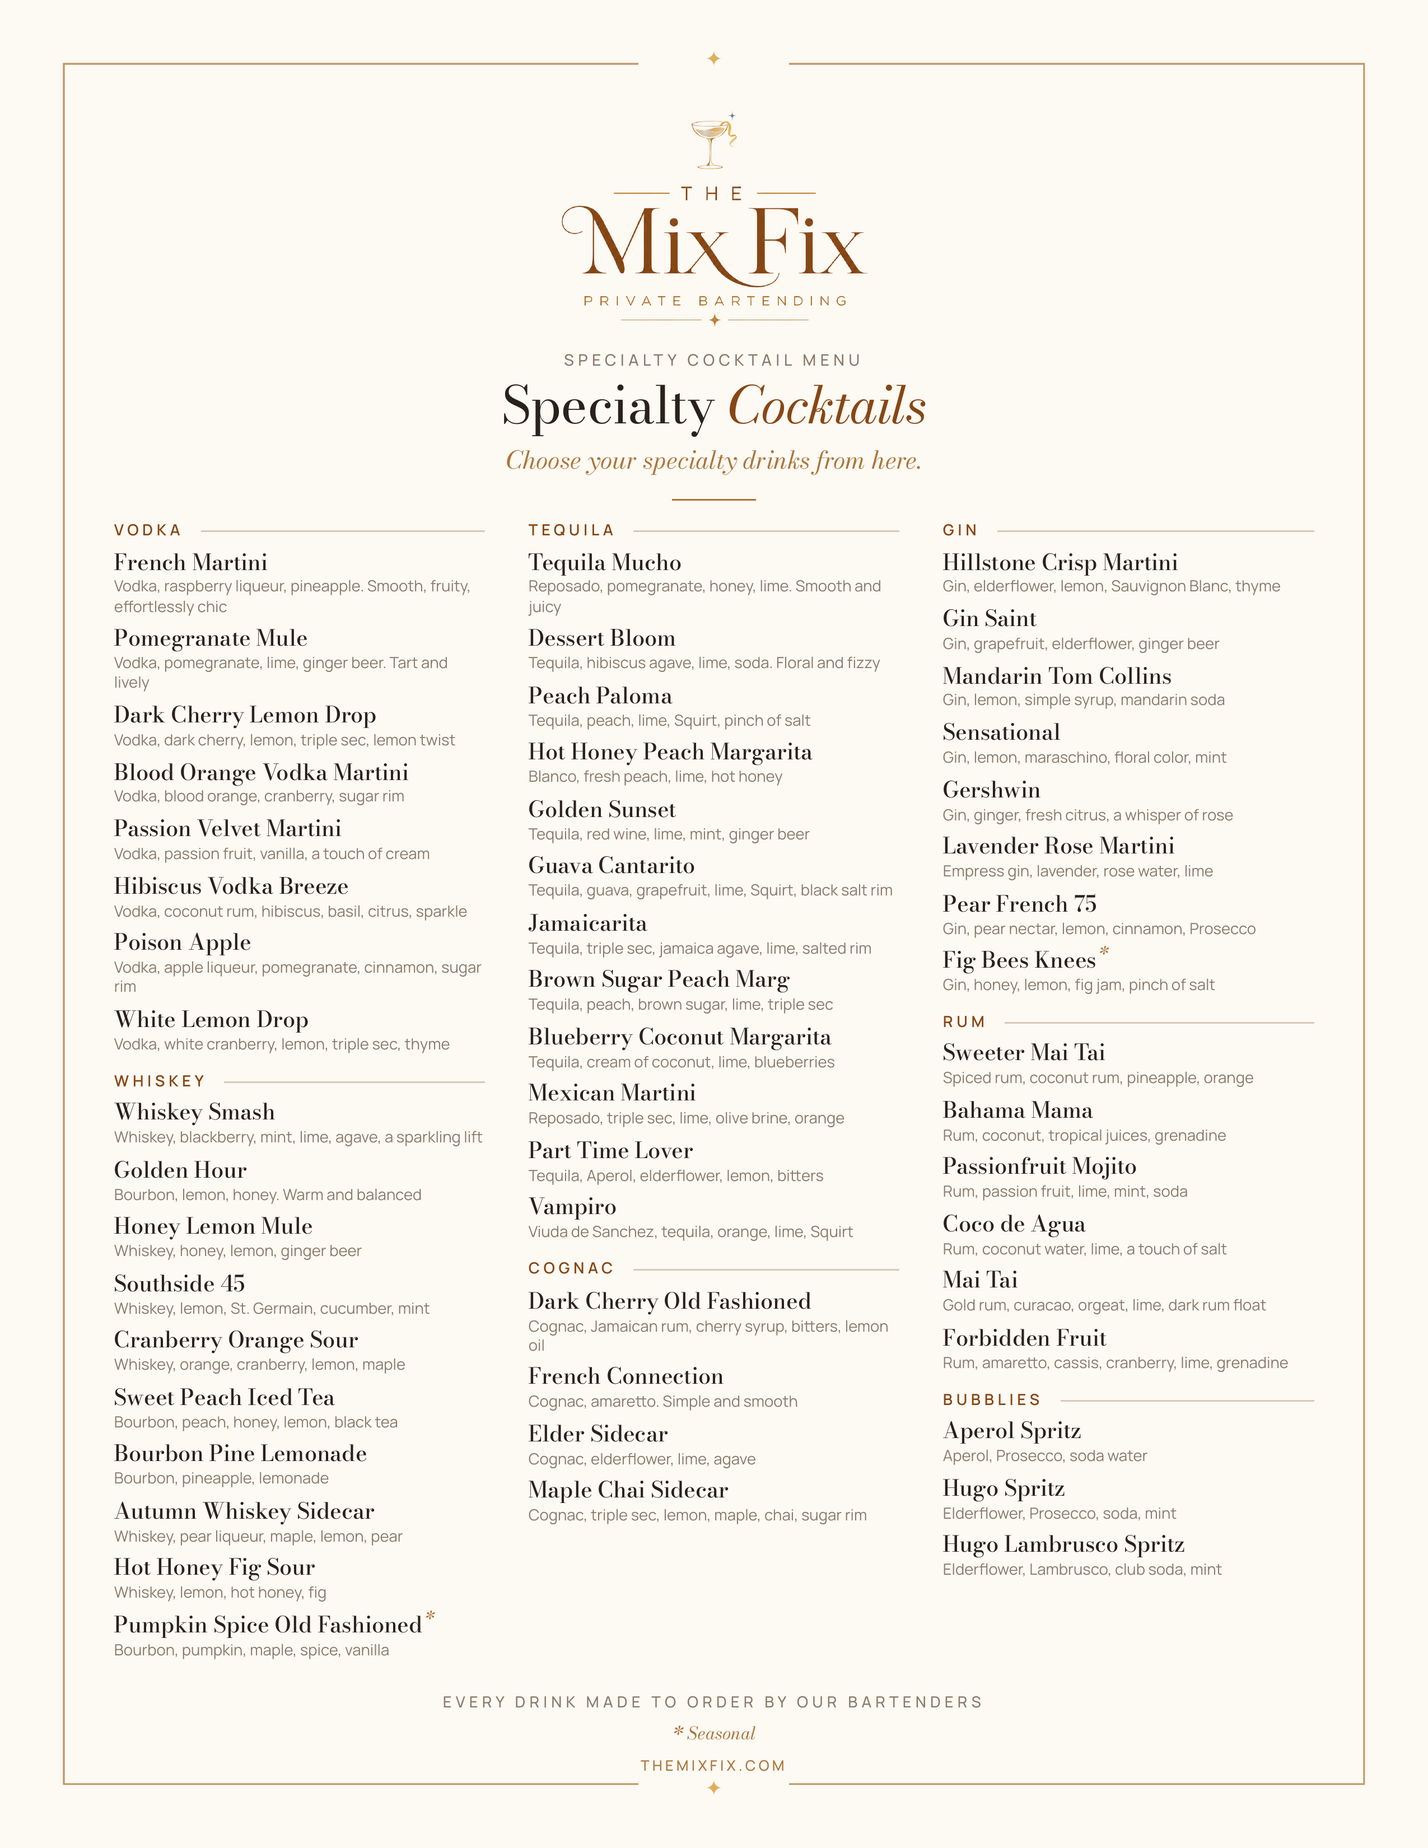
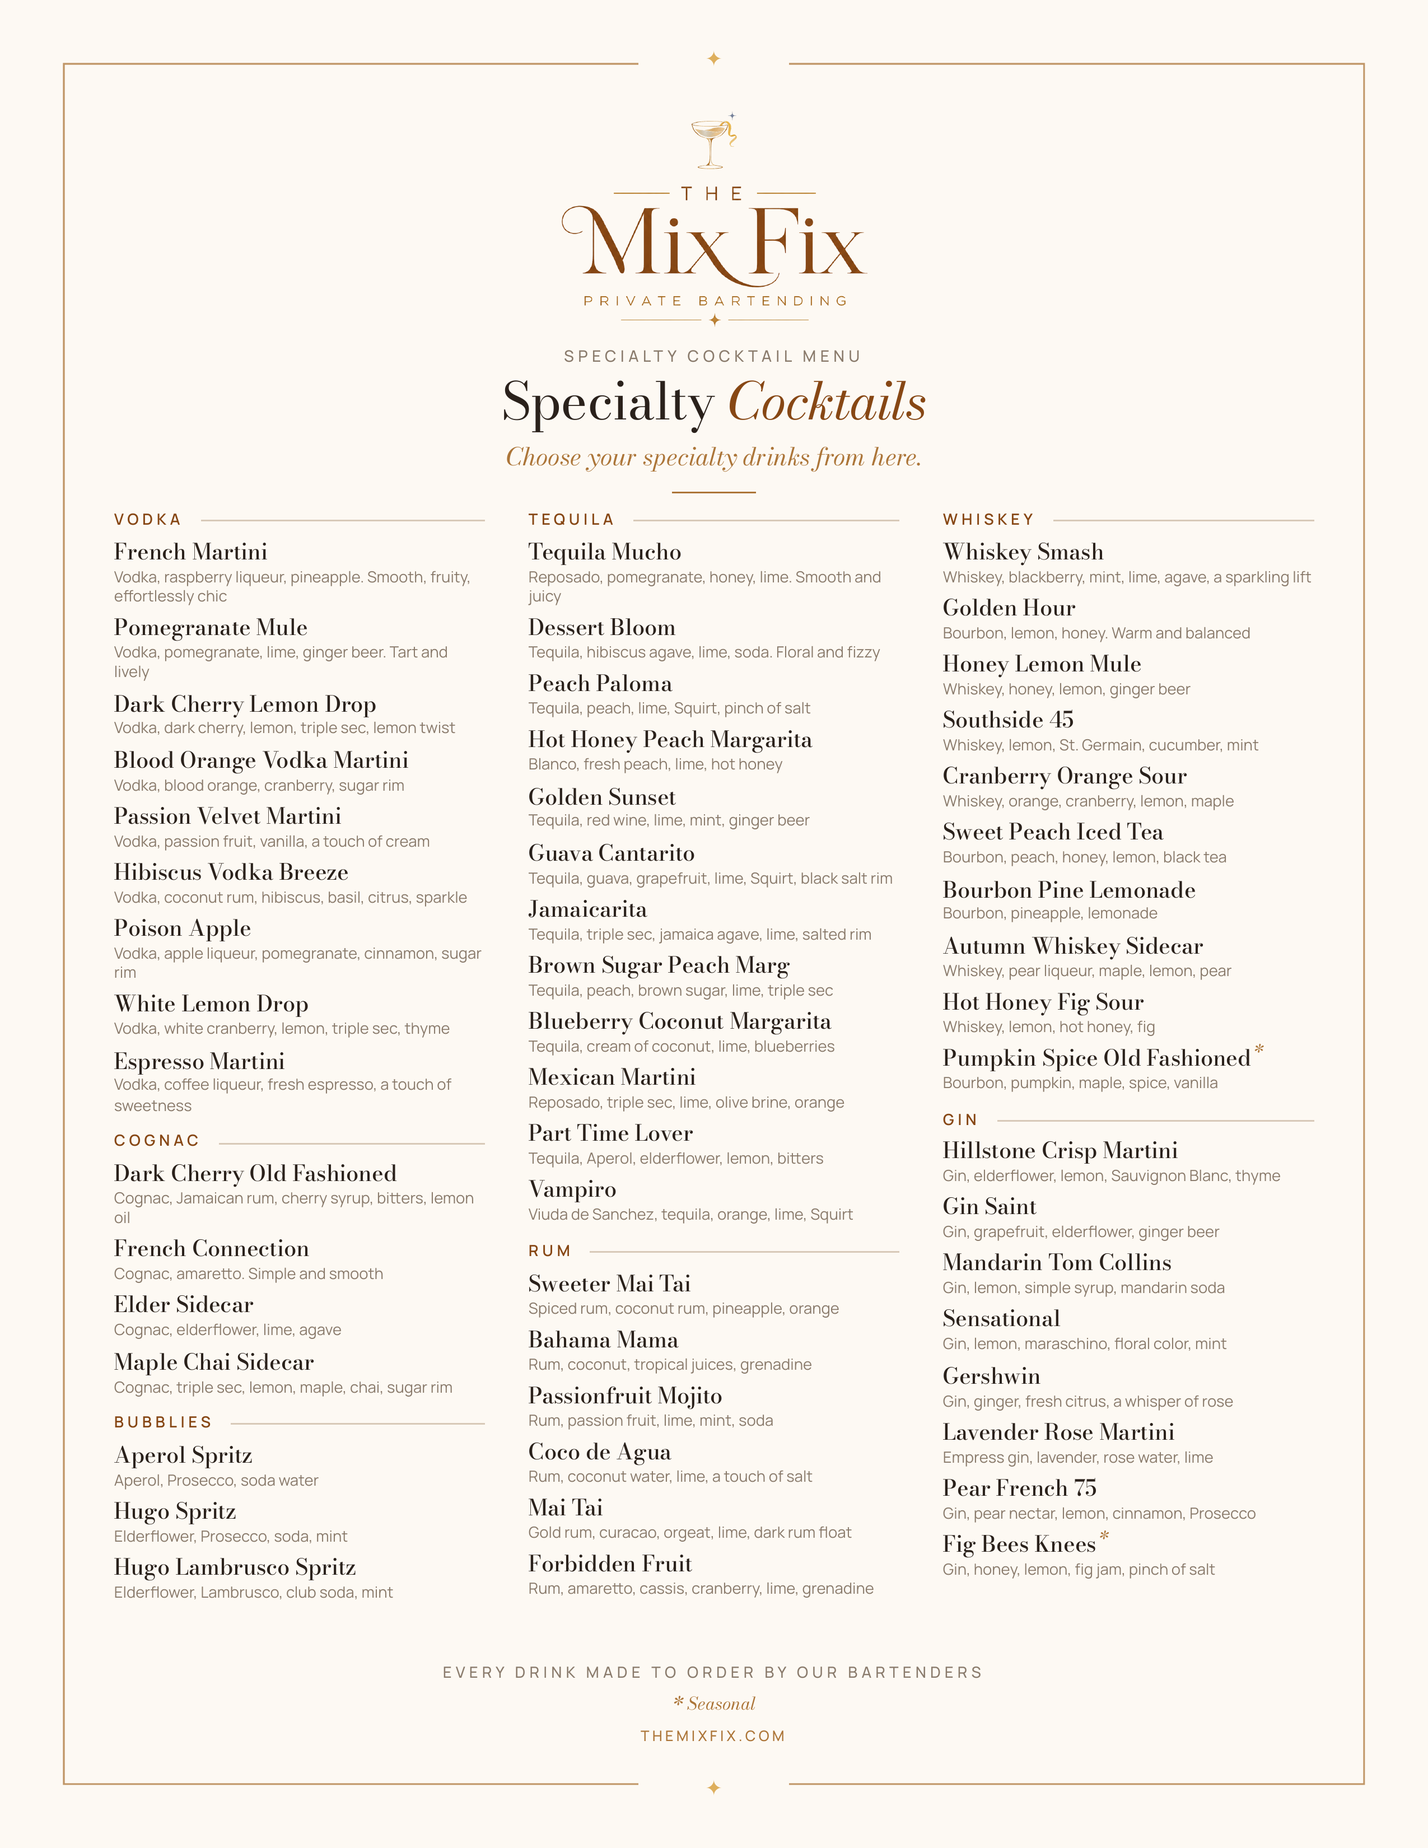
Menu decisions: Espresso Martini on specialty menu, Dive well additions, recipe fixes, remove retired drinks

diff --git a/lib/system-prompt.ts b/lib/system-prompt.ts
@@ -182,11 +182,9 @@ export const DRINK_MENU_RULES = `RULES FOR DRINK SELECTION:
 1. Always suggest exactly 3 options per spirit, one spirit at a time.
 2. On craft menu packages, ALWAYS suggest from the POPULAR picks first for whatever spirit the client chooses. On Dive Bar, suggest from the CLASSICS section for that spirit.
 3. Only suggest OTHER items from the allowed pool if the client does not like any of the 3 options or wants something different.
-4. AUTO FILL CLASSICS (Full Bar and Premium Bar, and the legacy Bartender Only and Tailored Bar): If the client requests a cocktail that is NOT on our craft menu, FIRST check if it is in the CLASSICS section below, or is one of these: Espresso Martini, Long Island Iced Tea, White Russian, French Connection, Aperol Spritz. If YES, AUTO FILL the standard recipe yourself and lock it in just like a menu drink. Do not say a bar manager will follow up for a classic. Use the recipes in the CLASSICS section, and these when needed:
-- Espresso Martini: 2 oz vodka, 1 oz coffee liqueur, 1 oz fresh espresso, 0.5 oz simple syrup
-- Aperol Spritz: 2 oz Aperol, 3 oz Prosecco, 1 oz soda water
+4. AUTO FILL CLASSICS (Full Bar and Premium Bar, and the legacy Bartender Only and Tailored Bar): If the client requests a cocktail that is NOT on our craft menu, FIRST check if it is in the CLASSICS section below. If YES, AUTO FILL the recipe from that section and lock it in just like a menu drink. Do not say a bar manager will follow up for a classic.
 
-AUTO FILL BY PACKAGE: On Essentials Bar and The Big Day Bar, auto fill is NOT available because those packages are craft menu only. If the client asks for any classic by name, follow the DRINK SOURCING BY PACKAGE rule: say it is not part of their package menu, offer the closest craft menu option, note it in special_requests, and do not quote any upgrade. On Dive Bar, use only the recipes in the CLASSICS section. These five drinks are NEVER available on Dive Bar, even if the client asks by name: Espresso Martini, Long Island Iced Tea, White Russian, French Connection, Aperol Spritz. If a Dive Bar client asks for one, say "That one is not part of the Dive Bar package" and offer drinks from the CLASSICS section instead. On Dive Bar, Sidecar, Bellini, and Amaretto Sour are available only if the client picks them as a signature drink, because the default well does not stock cognac, peach puree, or amaretto. Guests can NOT order these three at the bar unless the client picked them. If a client asks about ordering one at the bar, or about one of these three at all, say: "That one is only available if you pick it as a signature drink, since our default well does not stock cognac, peach puree, or amaretto." Name the one ingredient that applies. Never tell a Dive Bar client that guests can order any classic at the bar without mentioning these three.
+AUTO FILL BY PACKAGE: On Essentials Bar and The Big Day Bar, auto fill is NOT available because those packages are craft menu only. If the client asks for any classic by name, follow the DRINK SOURCING BY PACKAGE rule: say it is not part of their package menu, offer the closest craft menu option, note it in special_requests, and do not quote any upgrade. On Dive Bar, use only the recipes in the CLASSICS section. These three drinks are NEVER available on Dive Bar, even if the client asks by name: Espresso Martini, French Connection, Aperol Spritz. If a Dive Bar client asks for one, say "That one is not part of the Dive Bar package" and offer drinks from the CLASSICS section instead. On Dive Bar, Sidecar, Bellini, and Amaretto Sour are available only if the client picks them as a signature drink, because the default well does not stock cognac, peach puree, or amaretto. Guests can NOT order these three at the bar unless the client picked them. If a client asks about ordering one at the bar, or about one of these three at all, say: "That one is only available if you pick it as a signature drink, since our default well does not stock cognac, peach puree, or amaretto." Name the one ingredient that applies. Never tell a Dive Bar client that guests can order any classic at the bar without mentioning these three.
 
 If the client requests a cocktail that is on neither our craft menu nor the classics list (and it is not one of the cases handled by AUTO FILL BY PACKAGE above), ask if they have an exact recipe: "That sounds great! Do you have an exact recipe for that drink you would like us to follow?" If they share an exact recipe, save it in signature_drinks exactly as they give it, using the ingredients they provided with oz amounts, and set is_custom to true. If they do NOT have an exact recipe, do NOT invent one and do NOT ask them to describe a flavor profile for us to build. Say: "No problem, I will have our team reach out to you about that drink." Add a note in special_requests that the client wants that drink and the team needs to follow up, then move on to the next drink. Do NOT improvise ingredients or a base spirit for a drink we did not discuss from the menu or classics list.
 
@@ -223,6 +221,7 @@ Poison Apple: vodka, apple liqueur, pomegranate juice, cinnamon syrup, sugar rim
 White Lemon Drop: vodka, white cranberry juice, lemon juice, triple sec, simple syrup, thyme sprig garnish. Recipe: 2 oz vodka, 1 oz white cranberry juice, 1 oz lemon juice, 0.5 oz triple sec, 0.5 oz simple syrup.
 Blood Orange Vodka Martini: vodka, blood orange juice, cranberry juice, simple syrup, sugar rim. Recipe: 2 oz vodka, 1.5 oz blood orange juice, 1 oz cranberry juice, 0.5 oz simple syrup, sugar rim.
 Passion Velvet Martini: vanilla vodka, passion fruit puree, lime juice, vanilla syrup, heavy cream. Recipe: 2 oz vanilla vodka, 1.5 oz passion fruit puree, 0.5 oz lime juice, 0.5 oz vanilla syrup, 0.5 oz heavy cream.
+Espresso Martini: vodka, coffee liqueur, fresh espresso, simple syrup. Recipe: 2 oz vodka, 1 oz coffee liqueur, 1 oz fresh espresso, 0.5 oz simple syrup.
 
 === TEQUILA ===
 POPULAR:
@@ -252,7 +251,7 @@ Golden Hour: bourbon, lemon juice, honey syrup. Recipe: 2 oz bourbon, 0.75 oz le
 Autumn Whiskey Sidecar: whiskey, pear liqueur, maple syrup, lemon juice, pear juice. Recipe: 1.5 oz whiskey, 0.5 oz pear liqueur, 0.5 oz maple syrup, 0.25 oz lemon juice, 1 oz pear juice.
 Hot Honey Fig Sour: whiskey, lemon juice, hot honey syrup, fig puree. Recipe: 2 oz whiskey, 1 oz lemon juice, 0.75 oz hot honey syrup, 1 oz fig puree.
 Bourbon Pine Lemonade: bourbon, pineapple juice, lemonade. Recipe: 2 oz bourbon, 1 oz pineapple juice, 1 oz lemonade.
-Pumpkin Spice Old Fashioned: bourbon, pumpkin spice syrup, maple syrup, bitters, orange peel (seasonal). Recipe: 2 oz bourbon, 0.5 oz pumpkin spice syrup, 0.25 oz maple syrup, 2 dashes bitters, orange peel.
+Pumpkin Spice Old Fashioned: bourbon, pumpkin spice syrup, maple syrup, vanilla syrup, bitters, orange peel (seasonal). Recipe: 2 oz bourbon, 0.5 oz pumpkin spice syrup, 0.25 oz maple syrup, 0.25 oz vanilla syrup, 2 dashes bitters, orange peel.
 Honey Lemon Mule: whiskey, lemon juice, honey syrup, ginger beer. Recipe: 2 oz whiskey, 0.75 oz lemon juice, 0.5 oz honey syrup, top with ginger beer.
 Southside 45: whiskey, lemon juice, St. Germain, simple syrup, muddled cucumber, mint garnish. Recipe: 2 oz whiskey, 0.75 oz lemon juice, 0.5 oz St. Germain, 0.5 oz simple syrup, 3 cucumber slices muddled, mint garnish.
 
@@ -290,7 +289,7 @@ OTHER:
 Maple Chai Sidecar: cognac, triple sec, lemon juice, maple syrup, chai tea, sugar rim and anise star garnish. Recipe: 2 oz cognac, 0.75 oz triple sec, 0.75 oz lemon juice, 0.75 oz maple syrup, 2 oz chai tea.
 
 === BUBBLIES ===
-Aperol Spritz: Aperol, Prosecco, soda water.
+Aperol Spritz: Aperol, Prosecco, soda water. Recipe: 2 oz Aperol, 3 oz Prosecco, 1 oz soda water.
 Hugo Spritz: elderflower liqueur, Prosecco, soda water, mint. Recipe: 1.5 oz elderflower liqueur, 3 oz Prosecco, 1 oz soda water, mint.
 Hugo Lambrusco Spritz: elderflower liqueur, Lambrusco wine, club soda, mint leaves. Recipe: 2 oz elderflower liqueur, 4 oz Lambrusco wine, 1 oz club soda, 4 to 6 mint leaves.
 
@@ -311,7 +310,7 @@ Western Chilton: 2 oz vodka, 1 oz lemon juice, top with soda water, salt rim
 TEQUILA
 Margarita: 2 oz tequila blanco, 1 oz lime juice, 0.75 oz triple sec, 0.5 oz simple syrup, salt rim
 Paloma: 2 oz tequila, 0.5 oz lime juice, top with grapefruit soda, tajin rim
-Ranch Water: 2 oz tequila blanco, 1 oz lime juice, top with Topo Chico, salt rim
+Ranch Water: 2 oz tequila blanco, 1 oz lime juice, top with soda water (Topo Chico), salt rim
 Tequila Sunrise: 2 oz tequila, 4 oz orange juice, 0.5 oz grenadine
 GIN
 Tom Collins: 2 oz gin, 1 oz lemon juice, 0.5 oz simple syrup, top with soda water
@@ -428,7 +427,7 @@ WHEN YOU HAVE COLLECTED ALL INFORMATION output your closing message AND call the
 CRITICAL: After you write the closing message you MUST call the submit_event_data tool in the SAME response. The tool call is what completes the booking and hands the details off to our team. Do not wait for the client to respond before calling it. If you send the closing message without calling submit_event_data, the session will hang and the client's details will be lost. If the client says thank you or anything after you have called the tool, do not respond again.
 
 CONVERSATION FLOW BY PACKAGE:
-Dive Bar Package: LOGISTICS FIRST, THEN ONE MENU QUESTION. Clients do NOT pick drinks on Dive Bar unless they ask for a menu. Guests walk up and order whatever classics they want, like at a dive bar. Phase 1 logistics as normal, no cooler question, but SKIP the drinking pace question. SKIP theme and colors unless the client volunteers them. Still ask about allergies and the day of contact. After logistics, say: "On Dive Bar, guests just walk up and order the classics they want, like an old fashioned, margarita, or lemon drop." Then ask this as its own question: "Would you like us to build a signature cocktail menu for the night, or keep it open bar style?" If YES, set dive_menu_requested to true and run Phase 2 (theme, colors, drinking pace), Phase 3 with three signature cocktails chosen from the CLASSICS section only (no craft menu drinks, no mocktails, and never Espresso Martini, Long Island Iced Tea, White Russian, French Connection, or Aperol Spritz), Phase 3B, and Phase 4. Classics keep their standard names on Dive Bar, no creative naming. If NO, set dive_menu_requested to false, leave signature_drinks as an empty array, never mention a menu or signature drinks again, SKIP Phase 3, Phase 3B, and Phase 4, and go to Phase 5, the PAYMENT STEP, and Phase 6. Never use Espresso Martini as an example anywhere on Dive Bar. Shopping list is alcohol only.
+Dive Bar Package: LOGISTICS FIRST, THEN ONE MENU QUESTION. Clients do NOT pick drinks on Dive Bar unless they ask for a menu. Guests walk up and order whatever classics they want, like at a dive bar. Phase 1 logistics as normal, no cooler question, but SKIP the drinking pace question. SKIP theme and colors unless the client volunteers them. Still ask about allergies and the day of contact. After logistics, say: "On Dive Bar, guests just walk up and order the classics they want, like an old fashioned, margarita, or lemon drop." Then ask this as its own question: "Would you like us to build a signature cocktail menu for the night, or keep it open bar style?" If YES, set dive_menu_requested to true and run Phase 2 (theme, colors, drinking pace), Phase 3 with three signature cocktails chosen from the CLASSICS section only (no craft menu drinks, no mocktails, and never Espresso Martini, French Connection, or Aperol Spritz), Phase 3B, and Phase 4. Classics keep their standard names on Dive Bar, no creative naming. If NO, set dive_menu_requested to false, leave signature_drinks as an empty array, never mention a menu or signature drinks again, SKIP Phase 3, Phase 3B, and Phase 4, and go to Phase 5, the PAYMENT STEP, and Phase 6. Never use Espresso Martini as an example anywhere on Dive Bar. Shopping list is alcohol only.
 Essentials Bar Package: Full conversation. Phase 1 then Phase 2 then Phase 3 (guided selection from the craft menu only, 3 signature cocktails, no classics, no mocktails) then Phase 3B (menu design statement, no questions) then Phase 4 then Phase 5 then the PAYMENT STEP then Phase 6.
 The Big Day Bar Package: WEDDINGS ONLY. Full conversation, same as Essentials, but the package includes TWO signature cocktails, not three. During logistics (Phase 1), mention ONCE what is included, leading with the drinks, exactly like this: "Just a quick note on what is included with The Big Day Bar: two signature cocktails designed for you, extra sodas and bottled water for kids and non drinkers, and a dedicated barback who covers setup and the first three hours of service for cocktail hour." The Big Day Bar does NOT include a coffee station, it is an add on. The bartender arrives 3 hours before service for weddings. Phase 1 then Phase 2 then Phase 3 (guided selection from the craft menu only, 2 signature cocktails, no classics, no mocktails) then Phase 3B (menu design statement, no questions) then Phase 4 then Phase 5 then the PAYMENT STEP then Phase 6.
 Full Bar Package: Full conversation. During logistics (Phase 1), mention ONCE that sodas and bottled water for kids and non drinkers are included. Phase 1 then Phase 2 then Phase 3 (guided selection from the craft menu first, then the CLASSICS section, 3 signature drinks, cocktails or mocktails) then Phase 3B (menu design statement, no questions) then Phase 4 then Phase 5 then the PAYMENT STEP then Phase 6.

diff --git a/lib/shopping-list.ts b/lib/shopping-list.ts
@@ -210,6 +210,13 @@ const DIVE_WELL_SHARES: [string, number][] = [
 ];
 const DIVE_WELL_POUR_OZ = 2;
 const DIVE_WELL_GUESTS_PER_TRIPLE_SEC = 50;
+// The classics also need these, at a set bottle count however many guests come.
+const DIVE_WELL_FIXED_BOTTLES: [string, number][] = [
+  ["dry vermouth", 1],
+  ["sweet vermouth", 1],
+  ["dark rum", 1],
+];
+const DIVE_WELL_GUESTS_PER_PROSECCO = 25;
 // Mixers the classics need beyond the Dive Bar baseline, sized at drink count 1.
 const DIVE_WELL_MIXERS = ["simple syrup", "lime juice", "lemon juice", "bitters"];
 
@@ -220,7 +227,8 @@ const DIVE_BASELINE_MIXERS = [
 ];
 
 function isDiveBaselineMixer(key: string): boolean {
-  if (key.includes("blood orange")) return false;
+  // Named like a baseline mixer, but a different product to buy.
+  if (key.includes("blood orange") || key.includes("topo chico")) return false;
   return DIVE_BASELINE_MIXERS.some((b) => key.includes(b));
 }
 
@@ -287,6 +295,7 @@ function getSpiritBottles(
     "absinthe": { top: "St. George Absinthe Verte", moderate: "Pernod" },
     "viuda de sanchez": { top: "Viuda de Sanchez", moderate: "Viuda de Sanchez" },
     "jack daniels": { top: "Jack Daniel's Old No. 7", moderate: "Jack Daniel's Old No. 7" },
+    "prosecco": { top: "La Marca", moderate: "Kirkland Prosecco" },
     "vanilla vodka": { top: "Absolut Vanilia", moderate: "Smirnoff Vanilla" },
     "dark rum": { top: "Goslings Black Seal", moderate: "Myers's" },
     "red wine": { top: "Malbec or Cabernet", moderate: "Any dry red" },
@@ -325,6 +334,7 @@ function getSpiritBottles(
     }
   }
 
+  const wellFixed = new Map(DIVE_WELL_FIXED_BOTTLES);
   const wellShares = new Map<string, number>();
   if (diveWell) {
     for (const [spiritKey, share] of DIVE_WELL_SHARES) {
@@ -334,6 +344,12 @@ function getSpiritBottles(
     }
     spiritOzTotals.set("triple sec", 0);
     spiritNames.set("triple sec", "Triple sec");
+    for (const [spiritKey] of DIVE_WELL_FIXED_BOTTLES) {
+      spiritOzTotals.set(spiritKey, 0);
+      spiritNames.set(spiritKey, spiritKey.charAt(0).toUpperCase() + spiritKey.slice(1));
+    }
+    spiritOzTotals.set("prosecco", 0);
+    spiritNames.set("prosecco", "Prosecco");
   }
   // Same hours scaling the mixers use: 4 hours = 1.0x, floor 0.75x.
   const wellHoursFactor = Math.max(0.75, (barHours && barHours > 0 ? barHours : 4) / 4);
@@ -364,6 +380,10 @@ function getSpiritBottles(
     let bottles: number;
     if (diveWell && spiritKey === "triple sec") {
       bottles = Math.ceil((guestCount * wellHoursFactor * eventMult) / DIVE_WELL_GUESTS_PER_TRIPLE_SEC);
+    } else if (diveWell && spiritKey === "prosecco") {
+      bottles = Math.ceil(guestCount / DIVE_WELL_GUESTS_PER_PROSECCO);
+    } else if (diveWell && wellFixed.has(spiritKey)) {
+      bottles = wellFixed.get(spiritKey)!;
     } else if (diveWell) {
       const share = wellShares.get(spiritKey) ?? 1;
       bottles = Math.ceil((guestCount * sf * wellHoursFactor * eventMult * ozPerDrink * SAFETY * share) / ML_PER_BOTTLE);
@@ -510,7 +530,6 @@ function canonicalIngredient(name: string): string {
   const k = name.toLowerCase();
   if (k === "soda") return "soda water";
   if (k.includes("cucumber")) return "cucumbers";
-  if (k.includes("green grape")) return "green grapes";
   return name;
 }
 
@@ -668,9 +687,10 @@ function getMixerQuantity(
     const count = Math.max(3, Math.ceil((guestCount * hoursFactor) / 15));
     return `${count} count`;
   }
-  if (key.includes("green grape")) {
-    const bags = Math.max(1, Math.ceil((guestCount * hoursFactor) / 50));
-    return `${bags} x 2 lb bag${bags === 1 ? "" : "s"}`;
+  if (key.includes("espresso")) {
+    // Brewed on site. A 10 oz can of ground espresso pulls about 40 one ounce shots.
+    const cans = Math.max(1, Math.ceil((guestCount * hoursFactor) / 40));
+    return `${cans} x 10 oz can${cans === 1 ? "" : "s"} ground espresso (Cafe Bustelo), brewed fresh`;
   }
   if (key.includes("prosecco")) {
     const bottles = Math.max(1, Math.ceil((guestCount * hoursFactor) / 15));
@@ -2481,7 +2501,7 @@ function routeMixerToStore(itemName: string): string {
   if (name.includes("smoked salt") || name.includes("rim sugar") || name.includes("cocktail rim")) return "Amazon";
   if (name.includes("rose water")) return "Amazon";
   if (name.includes("vanilla syrup") || name.includes("blood orange")) return "Specs";
-  if (name.includes("heavy cream") || name.includes("cucumber") || name.includes("green grape") || name.includes("mandarin soda")) return "Walmart";
+  if (name.includes("heavy cream") || name.includes("cucumber") || name.includes("espresso") || name.includes("mandarin soda")) return "Walmart";
 
   if (name.includes("finest call")) return "Specs";
   if (name.includes("real brand") || name.includes("real ")) return "Specs";
